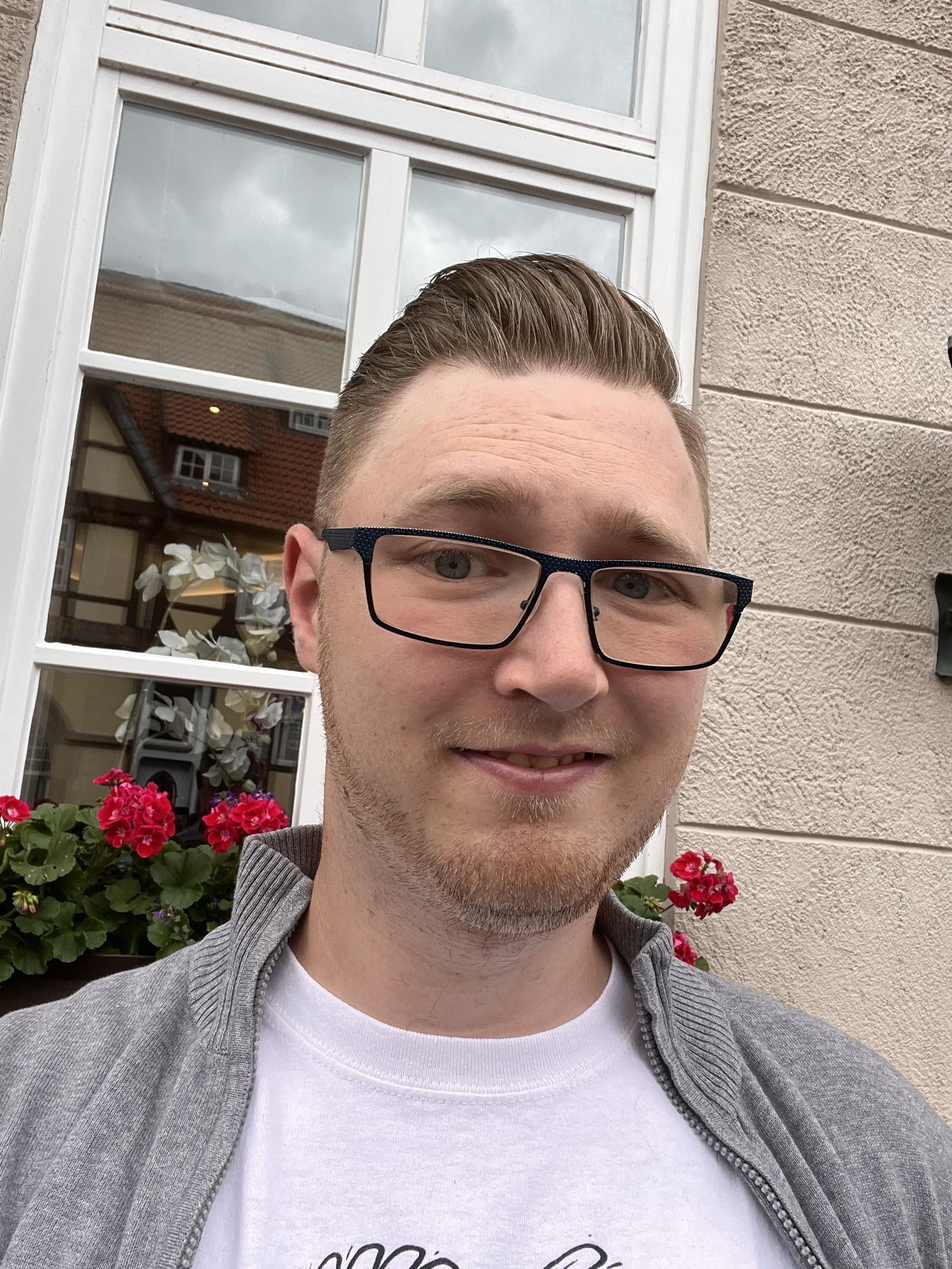
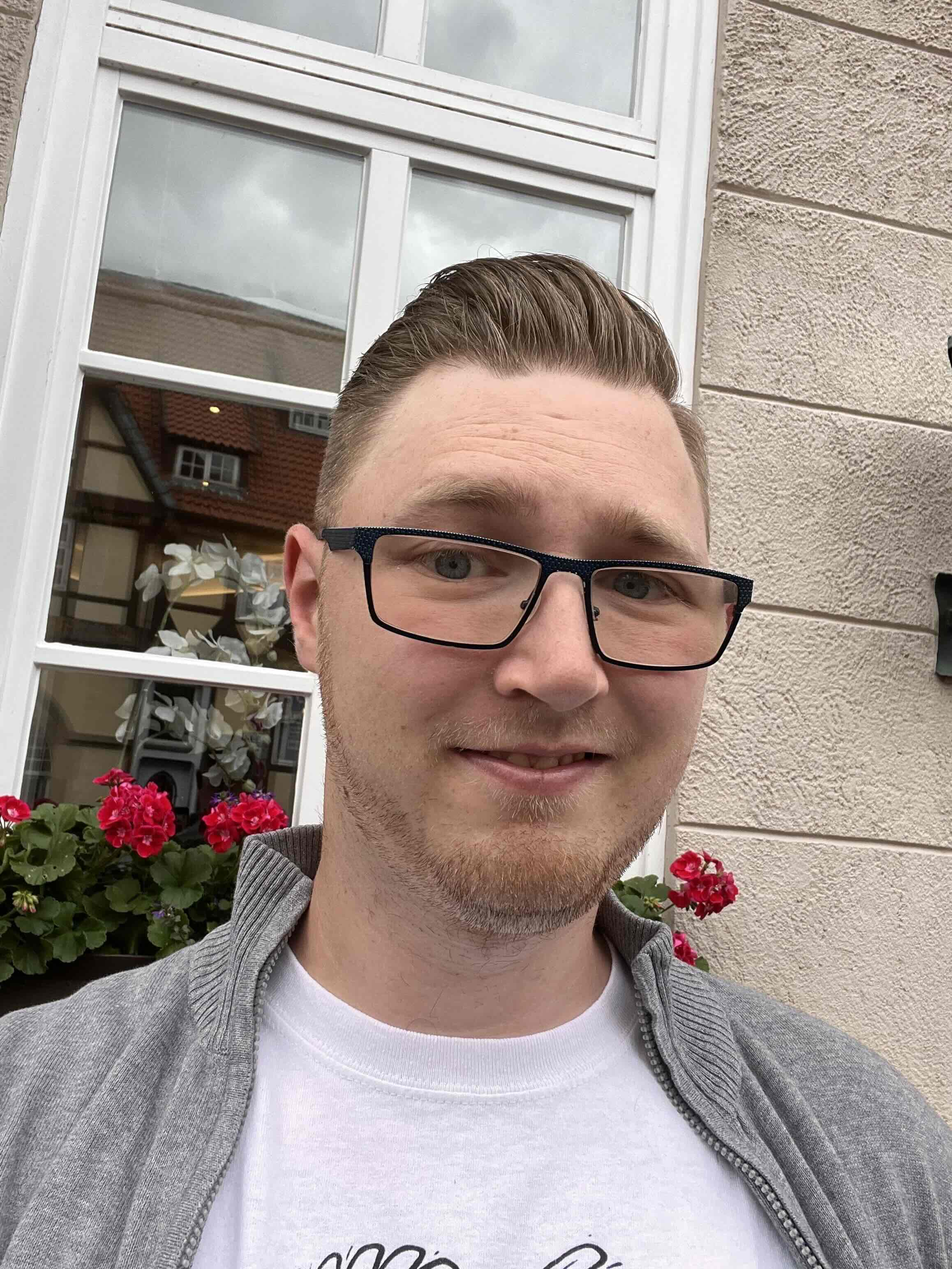
errors fixed and some responsive

diff --git a/src/app/app.routes.ts b/src/app/app.routes.ts
@@ -1,9 +1,8 @@
-import { InMemoryScrollingFeature, InMemoryScrollingOptions, provideRouter, Routes, withInMemoryScrolling } from '@angular/router';
+import {  Routes} from '@angular/router';
 import { ImprintComponent } from './imprint/imprint.component';
 import { PrivacyPolicyComponent } from './privacy-policy/privacy-policy.component';
 import { MainContentComponent } from './main-content/main-content.component';
-import { bootstrapApplication } from '@angular/platform-browser';
-import { LandingPageComponent } from './landing-page/landing-page.component';
+
 
 export const routes: Routes = [
   { path: '', component: MainContentComponent },
@@ -11,14 +10,4 @@ export const routes: Routes = [
   { path: 'PrivacyPolicy', component: PrivacyPolicyComponent }
 ];
 
-const scrollConfig: InMemoryScrollingOptions = {
-  scrollPositionRestoration: 'top', // Scrollt zum Anfang der Seite
-  anchorScrolling: 'enabled', // Ermöglicht das Scrollen zu Ankerpunkten
-};
 
-const inMemoryScrollingFeature: InMemoryScrollingFeature =
-  withInMemoryScrolling(scrollConfig);
-
-bootstrapApplication(LandingPageComponent, { // Die Anwendung mit LandingPageComponent starten
-  providers: [provideRouter(routes, inMemoryScrollingFeature)],
-});

diff --git a/src/app/contact/contact.component.html b/src/app/contact/contact.component.html
@@ -34,7 +34,7 @@
 
             <div class="submitArea">
                 <input type="checkbox" name="privacyPolicyCheck" id="privacyPolicyCheck" value="privacyPolicy" required #privacyPolicyCheck="ngModel"  [(ngModel)]="contactData.privacyPolicyAccepted">
-                <label for="privacyPolicyCheck"> {{'policyText' | translate}}</label>
+                <label for="privacyPolicyCheck"> {{'policyText1' | translate}}<a routerLink="PrivacyPolicy">{{'privacyPolicy.title' | translate}}</a>{{'policyText2' | translate}}</label>
                 
                 <input type="submit" value="Send" [disabled]="!contactForm.valid">
             </div>

diff --git a/src/app/imprint/imprint.component.ts b/src/app/imprint/imprint.component.ts
@@ -1,4 +1,4 @@
-import { Component, inject } from '@angular/core';
+import { Component, inject, OnInit } from '@angular/core';
 import { TranslateModule } from '@ngx-translate/core';
 import { TranslationService } from '../translation.service';
 
@@ -9,6 +9,13 @@ import { TranslationService } from '../translation.service';
   templateUrl: './imprint.component.html',
   styleUrl: './imprint.component.scss'
 })
-export class ImprintComponent {
+
+
+export class ImprintComponent implements OnInit {
+  ngOnInit() {
+    window.scrollTo(0, 0);
+  }
   translate = inject(TranslationService);
 }
+
+

diff --git a/src/app/privacy-policy/privacy-policy.component.ts b/src/app/privacy-policy/privacy-policy.component.ts
@@ -12,14 +12,9 @@ import { ViewportScroller } from '@angular/common';
   styleUrl: './privacy-policy.component.scss'
 })
 export class PrivacyPolicyComponent implements OnInit {
+  constructor(private router: Router) { }
+    
   ngOnInit() {
-    this.router.events.subscribe((event) => {
-      if (event instanceof NavigationEnd) {
-        this.viewportScroller.scrollToPosition([0, 0]);
-      }
-    });
+    window.scrollTo(0, 0);
   }
-
-  constructor(private router: Router, private viewportScroller: ViewportScroller) {}
-  translate = inject(TranslationService);
 }

diff --git a/src/app/contact/contact.component.ts b/src/app/contact/contact.component.ts
@@ -4,11 +4,12 @@ import { Component, inject } from '@angular/core';
 import { FormsModule, NgForm } from '@angular/forms';
 import { TranslateModule } from '@ngx-translate/core';
 import { TranslationService } from '../translation.service';
+import { RouterModule } from '@angular/router';
 
 @Component({
   selector: 'app-contact',
   standalone: true,
-  imports: [FormsModule, NgClass, TranslateModule, NgIf],
+  imports: [FormsModule, NgClass, TranslateModule, NgIf, RouterModule],
   templateUrl: './contact.component.html',
   styleUrl: './contact.component.scss'
 })

diff --git a/src/app/contact/contact.component.scss b/src/app/contact/contact.component.scss
@@ -193,10 +193,28 @@ color: red
   cursor: pointer;
 }
 
+a{
+  text-decoration: none;
+  color: #E15544;
+  &:hover{
+    color: #00f4bf;;
+  }
+}
 
 //----------------Media Querry------------
 
 @media(max-width: 950px){
+form{
+  padding-left: 0;
+
+  .smallInput{
+    width: 55%;
+    padding-left: 0;
+  }
+}
+
+
+
   .information{
     flex-direction: column;
   }
@@ -210,7 +228,7 @@ color: red
   }
 
 .submitArea{
-@include d-flex($fd: column)
+@include d-flex($fd: column, $g: 10px)
 }
 }
 

diff --git a/src/app/landing-page/landing-page.component.html b/src/app/landing-page/landing-page.component.html
@@ -13,6 +13,6 @@
         </div>
     </div>
  
-    <img data-aos="fade-left"  class="profilePicture" src= "./assets/img/IMG_1681.png" alt="Hier könnte ihre Werbung stehen">
+    <img data-aos="fade-left"  class="profilePicture" src= "./assets/img/landingPageProfile-2.png" alt="Hier könnte ihre Werbung stehen">
 </section>
 

diff --git a/src/app/app.component.ts b/src/app/app.component.ts
@@ -19,6 +19,8 @@ import { NavBarComponent } from './shared/nav-bar/nav-bar.component';
   templateUrl: './app.component.html',
   styleUrl: './app.component.scss'
 })
-export class AppComponent{}
+export class AppComponent{
+  
+}
 
 AOS.init();

diff --git a/src/app/comments/single-comment/single-comment.component.scss b/src/app/comments/single-comment/single-comment.component.scss
@@ -1,7 +1,7 @@
 @import '../../../styles.scss';
 .Singlecomment {
     width: 300px;
-    height: 350px;
+    height: 385px;
     border: 2px solid #E15544;
     border-radius: 15px;
     @include d-flex($fd: column);

diff --git a/src/app/shared/footer/footer.component.scss b/src/app/shared/footer/footer.component.scss
@@ -84,6 +84,10 @@ width: 100%;
 //----------------media querry----------------------
 
 @media(max-width: 590px){
+footer{
+  margin-top: 150px;
+}
+
   .footerTop{
     flex-direction: column;
   }

diff --git a/src/app/projects/projects.component.html b/src/app/projects/projects.component.html
@@ -1,5 +1,6 @@
-<section>
-    <h2>{{'projectsHead' | translate}}</h2>
+
+<section >
+    <h2 >{{'projectsHead' | translate}}</h2>
 
 
         @for (project of projects; track $index) {

diff --git a/src/app/projects/projects.component.scss b/src/app/projects/projects.component.scss
@@ -1,9 +1,11 @@
 @import '../../styles.scss';
 section{
  @include d-flex($fd: column);
+ 
     
     h2{
         @include bigRed();
+        margin-top: 100px;
     }
 }
 
